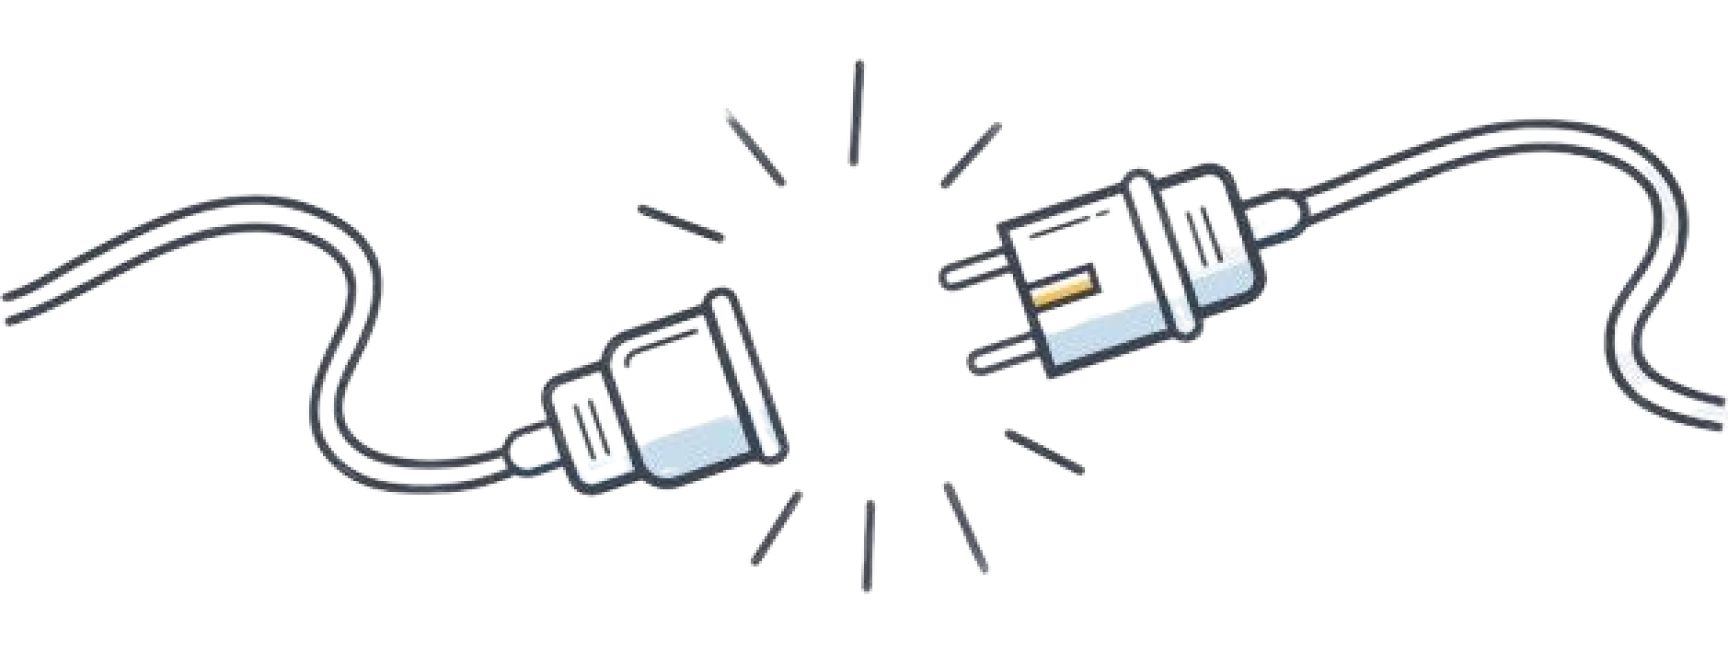
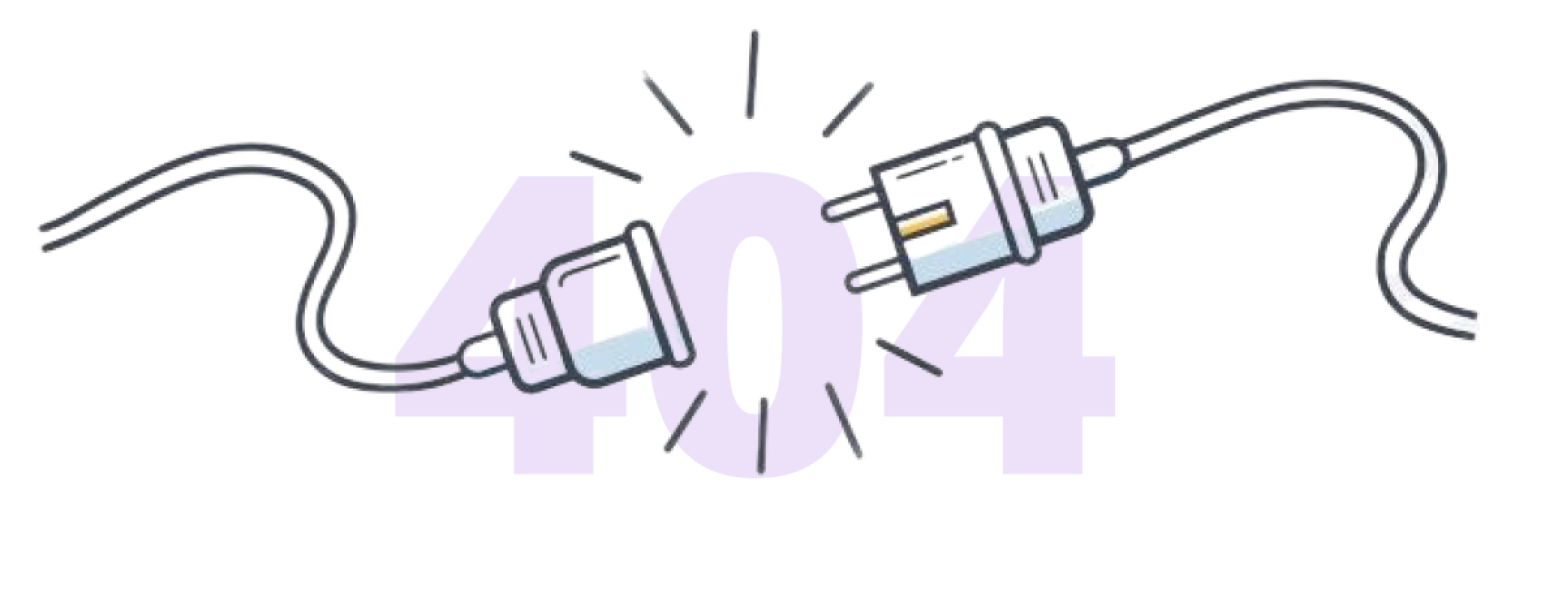
404 page perfection done

Changed region(s): [[0.0, 0.0608, 1.0, 0.9122], [0.5592, 0.8209, 0.5903, 0.8818]]

diff --git a/Css/404_page.css b/Css/404_page.css
@@ -37,12 +37,13 @@
 
 
 .error-content h2 {
-    font-size: 1.8rem;
+    font-size: 2.8rem;
     color: #666;
 }
 
 
-.error-content p {
+.error-content  {
+    margin-top: 50%;
     font-size: 1.2rem;
     color: solid black;
     margin-bottom: 20px;

diff --git a/404.php b/404.php
@@ -15,7 +15,7 @@
         <div class="error-container">
             <div class="error-content">
                 <!-- <img src="Images/404.png" alt="404 Error" class="error-image"> -->
-                <h1>404</h1>
+                <!-- <h1>404</h1> -->
                 <h2>This Page Does Not Exist</h2>
                 <p>The page you were looking for appears to have been moved, deleted, or does not exist.</p>
                 <a href="home.php" class="home-button">Return to Home</a>
